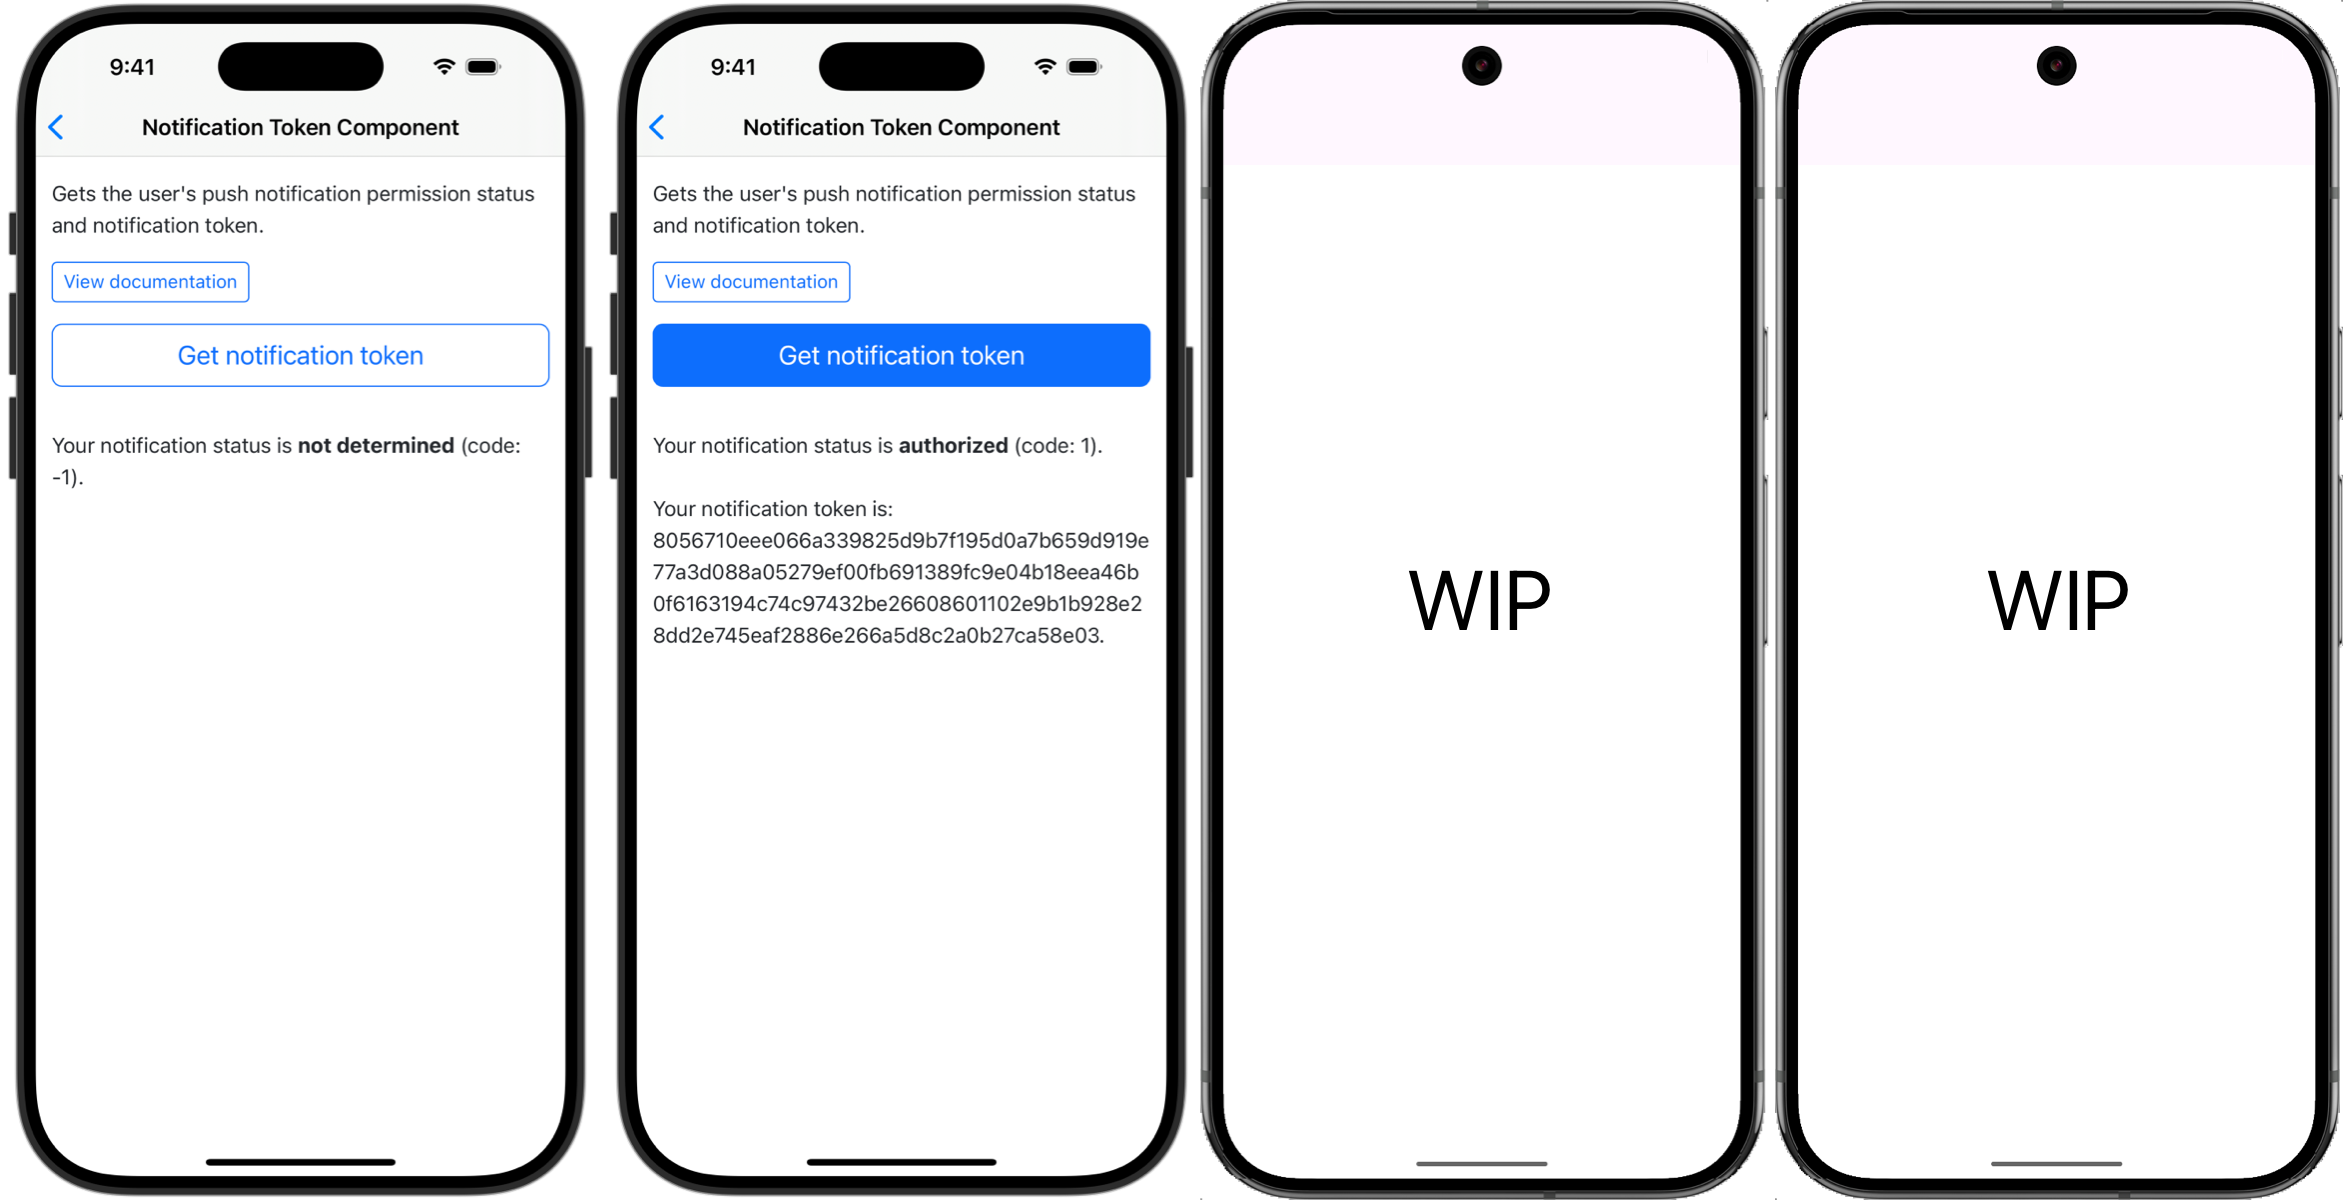
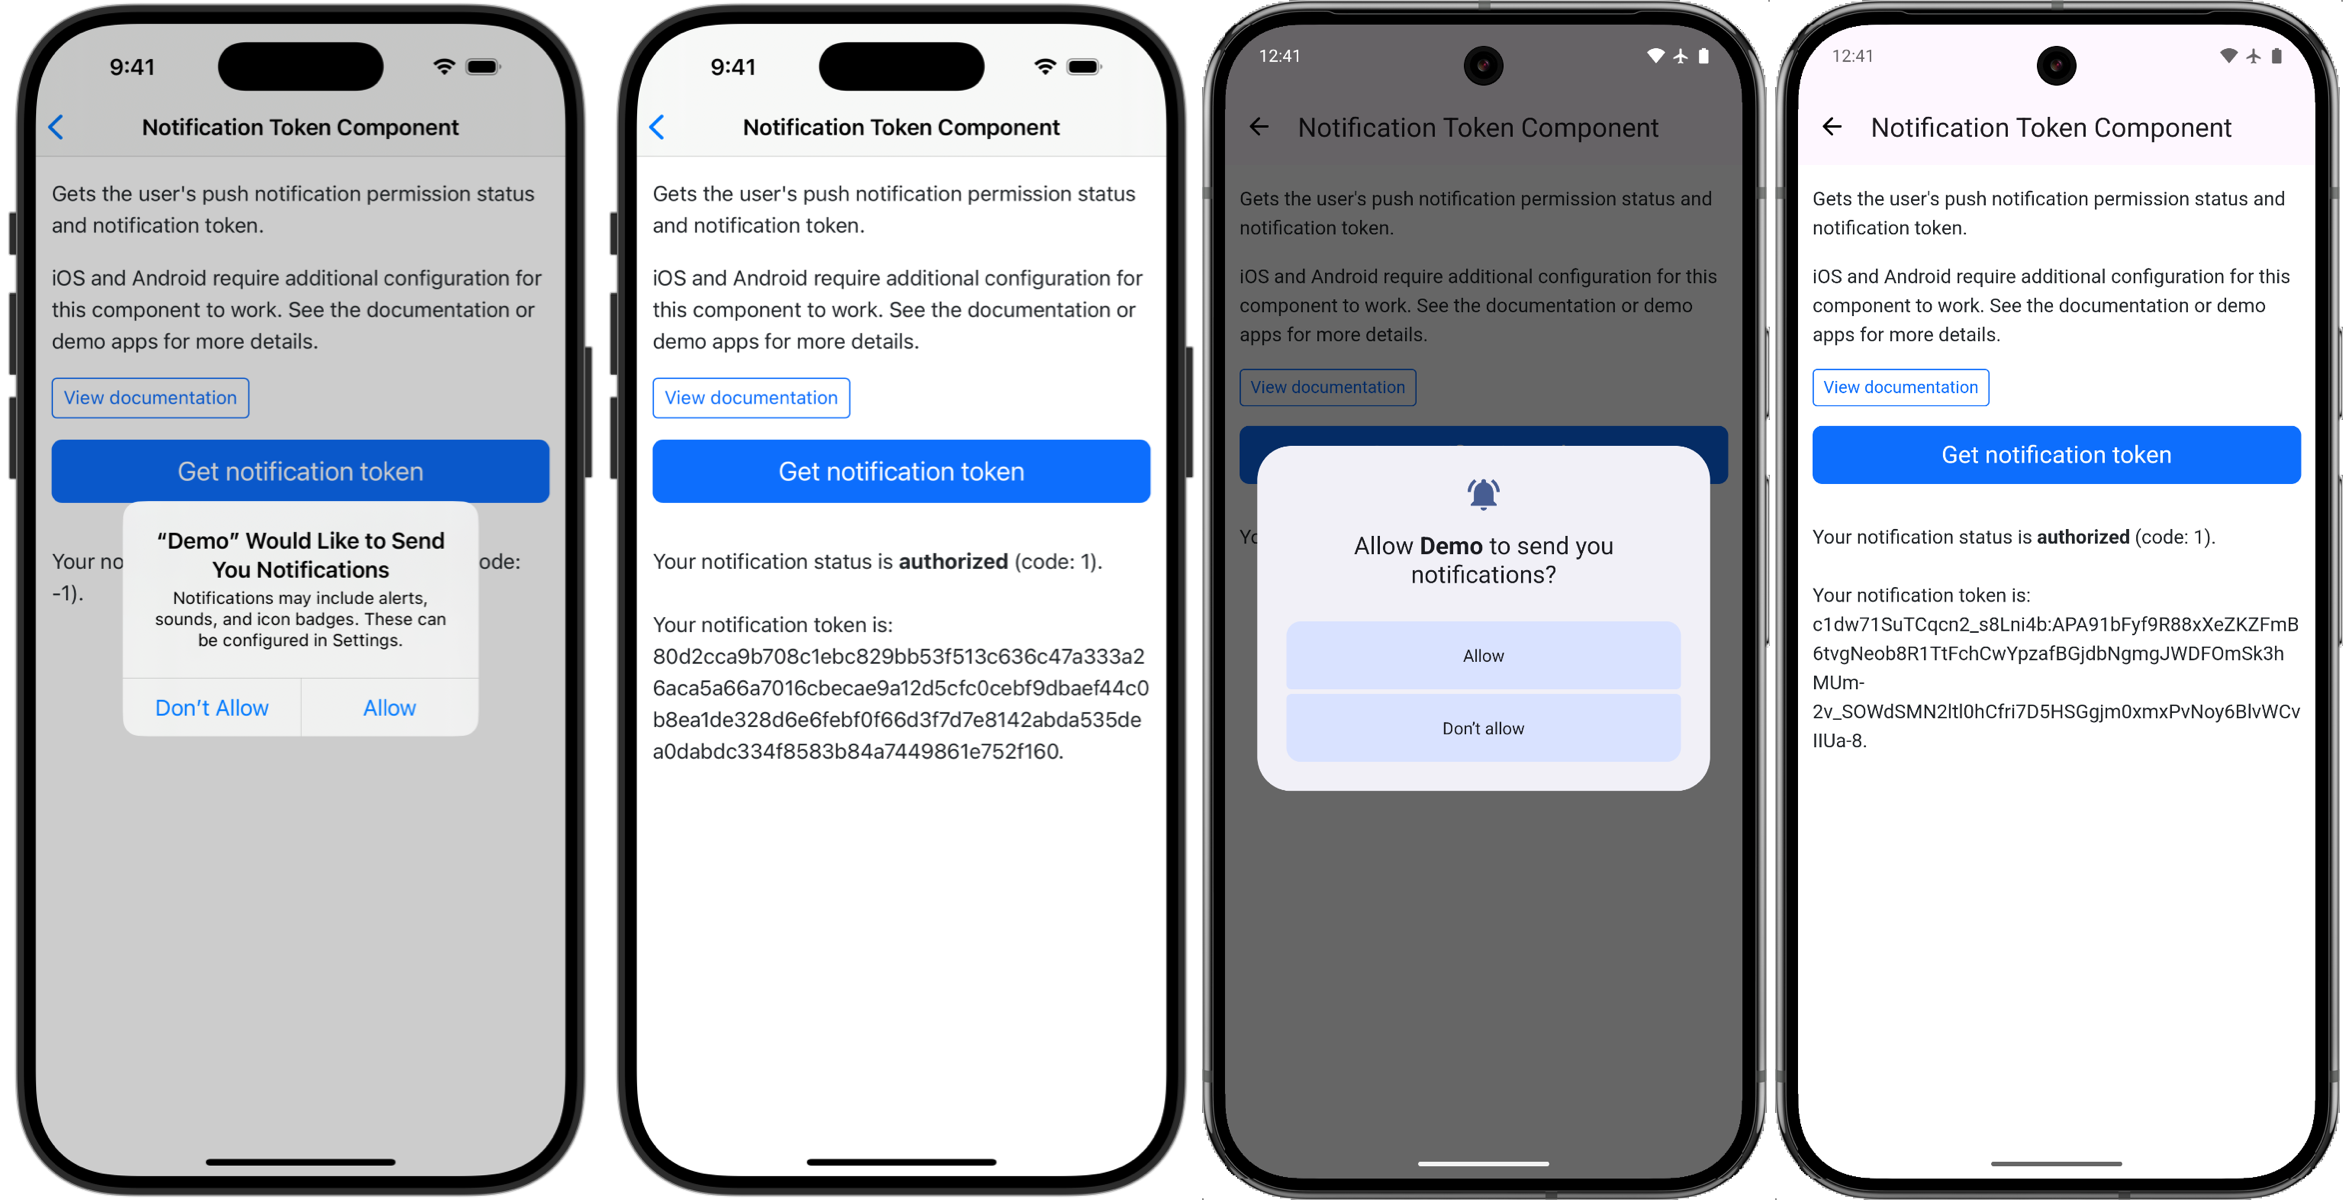
Update documentation for Android component

diff --git a/components/notification-token/README.md b/components/notification-token/README.md
@@ -1,8 +1,5 @@
 # Notification Token Component
 
-> [!WARNING]
-> The Android version of this component is still in development.
-
 Gets the user's push notification permission status and notification token.
 
 ![Notification Token Component examples](/resources/screenshots/notification-token.png)
@@ -22,12 +19,14 @@ Gets the user's push notification permission status and notification token.
 
 The following notification permission statuses are returned from the app. Use the status code to determine behavior in your app as needed.
 
-|Text|Code|[iOS status](https://developer.apple.com/documentation/usernotifications/unauthorizationstatus)|[Android status](TODO)|
+|Text|Code|[iOS status](https://developer.apple.com/documentation/usernotifications/unauthorizationstatus)|Android status|
 |---|---|---|---|
-|not determined|-1|`notDetermined`|TODO|
-|denied|0|`denied`|TODO|
-|authorized|1|`authorized`, `provisional`, or `ephemeral`|TODO|
-|unknown|-2|(anything else)|TODO|
+|not determined|-1|`notDetermined`|N/A|
+|denied|0|`denied`|`PERMISSION_DENIED`|
+|authorized|1|`authorized`, `provisional`, or `ephemeral`|`PERMISSION_GRANTED`|
+|unknown|-2|(anything else)|N/A|
+
+Note that Android returns "denied" status even before asking the user for permission.
 
 ## Additional requirements
 
@@ -47,4 +46,84 @@ func application(_ application: UIApplication, didRegisterForRemoteNotifications
 
 ### Android
 
-TODO
+First, sign up for a free [Firebase](https://console.firebase.google.com/) account and create a new project with an attached Android app.
+
+Download the `google-services.json` file and move it to your Android's project under the `App/` directory.
+
+#### Dependencies
+
+First, set the versions of each dependency by adding the following to `libs.versions.toml`.
+
+```toml
+[versions]
+firebaseBom = "33.10.0"
+
+[libraries]
+firebase-bom = { module = "com.google.firebase:firebase-bom", version.ref = "firebaseBom" }
+firebase-messaging = { module = "com.google.firebase:firebase-messaging" }
+```
+
+Then, add the following to the project's `build.gradle.kts` file.
+
+```kts
+plugins {
+    id("com.google.gms.google-services") version "4.4.2" apply false
+}
+```
+
+And the following to the app's `build.gradle.kts` file.
+
+```kts
+plugins {
+    id("com.google.gms.google-services")
+}
+
+dependencies {
+    implementation(platform(libs.firebase.bom))
+    implementation(libs.firebase.messaging)
+}
+```
+
+#### `WebFragment`
+
+To register for notifications we need to hook into the fragment presenting the web view.
+
+Copy-paste `WebFragment.kt` from [components/shared/](/components/shared/) into your app.
+
+Register the new fragment and kick off the Firebase integration by adding the following to your `Application` subclass.
+
+```kt
+package com.masilotti.demo
+
+import android.app.Application
+import com.google.firebase.FirebaseApp
+
+class DemoApplication : Application() {
+    override fun onCreate() {
+        super.onCreate()
+
+        FirebaseApp.initializeApp(this)
+        Hotwire.registerFragmentDestinations(WebFragment::class)
+        Hotwire.defaultFragmentDestination = WebFragment::class
+    }
+}
+```
+
+#### Permissions
+
+Finally, add the notification permissions to your `AndroidManifest.xml`.
+
+```xml
+<?xml version="1.0" encoding="utf-8"?>
+<manifest xmlns:android="http://schemas.android.com/apk/res/android"
+    xmlns:tools="http://schemas.android.com/tools">
+
+    <uses-permission android:name="android.permission.POST_NOTIFICATIONS" />
+
+    <application>
+        <!-- ...
+    </application>
+</manifest>
+```
+
+Check the [example Android app](/examples/android) for a working demo. You'll still need to bring your own `google-services.json` for it to work.
